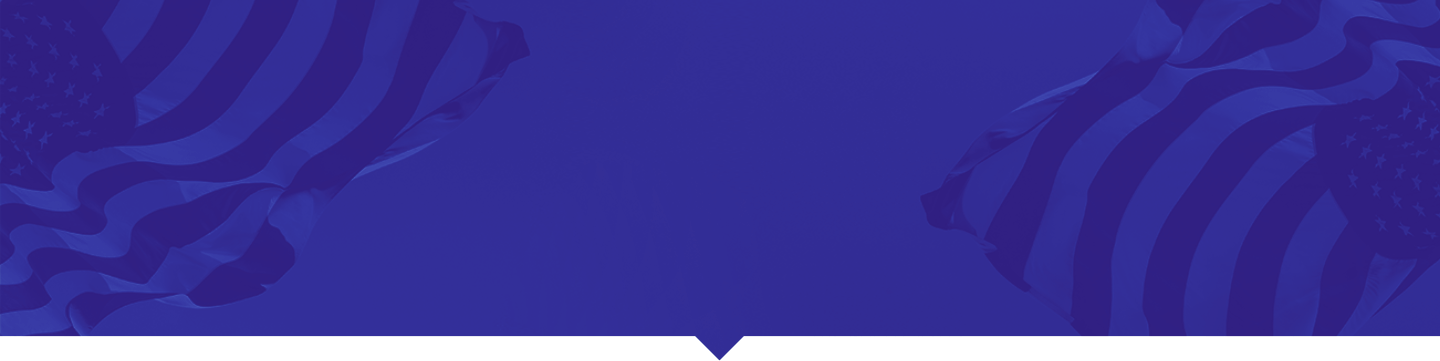
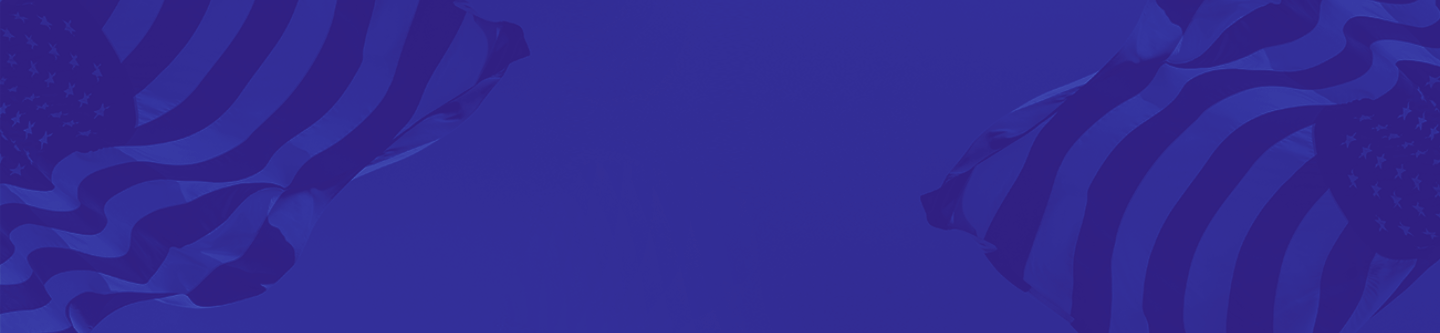
Change caret to vector and remove from splash img

diff --git a/public/css/main.css b/public/css/main.css
@@ -3930,12 +3930,14 @@ nav {
 .splash {
   width: 100%;
   text-align: center;
-  height: 50vh;
-  min-height: 500px;
+  height: 55vh;
+  min-height: 400px;
+  padding-bottom: 3vh;
   background-size: cover;
   background-repeat:no-repeat;
   background-position:center;
   color: white !important;
+  background-color: #2f2f91;
 }
 
 .splash-text {
@@ -3944,6 +3946,21 @@ nav {
 
 #index-splash-img {
   background-image: url(../img/index-hero.png);
+}
+
+/*Arrow */
+.splash:after {
+  content:'';
+  position: absolute;
+  top: 59vh;
+  left: 50%;
+  margin-left: -25px;
+  width: 0;
+  height: 0;
+  border-top: solid 25px #2f2f91;
+  border-left: solid 25px transparent;
+  border-right: solid 25px transparent;
+}
 }
 
 #sprint-splash-img {
@@ -5370,7 +5387,7 @@ footer {
 }
 
 #matrix-horizontal-accordion.fullscreen{
-  z-index: 9998;
+  z-index: 200;
   width: 100%;
   height: 100%;
   position: fixed;
@@ -5379,7 +5396,7 @@ footer {
 }
 
 #matrix-fullscreen {
-  z-index: 9999;
+  z-index: 90;
   position: absolute;
   top: 1em;
   right: 1em;
@@ -5389,6 +5406,10 @@ footer {
   padding: 0.3em;
   min-width: 80px;
   min-height: 50px;
+}
+
+#matrix-horizontal-accordion.fullscreen > #matrix-fullscreen {
+  z-index: 300;
 }
 
 #matrix-fullscreen:hover {
